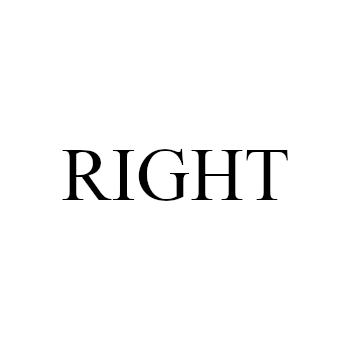
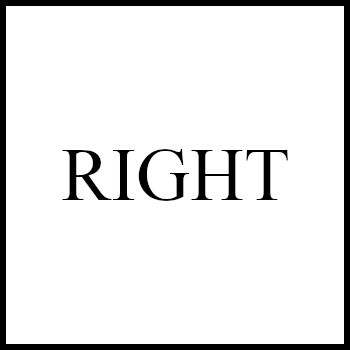
fix issues and add borders to the edges of the cube

Changed region(s): [[0.0, 0.0, 1.0, 1.0]]

diff --git a/crates/fj-viewer/src/graphics/navigation_cube.rs b/crates/fj-viewer/src/graphics/navigation_cube.rs
@@ -1,4 +1,4 @@
-use cgmath::{Quaternion, Rotation3, Vector3};
+use cgmath::{Quaternion, Rotation3, SquareMatrix, Vector3};
 use wgpu::util::DeviceExt;
 
 use super::{
@@ -191,16 +191,22 @@ impl NavigationCubeRenderer {
     }
 
     fn get_model_matrix(rotation: f32, aspect_ratio: &f64) -> [[f32; 4]; 4] {
-        let rotation = Quaternion::from_angle_y(cgmath::Deg(rotation));
+        let rotation = Quaternion::from_angle_y(cgmath::Deg(rotation))
+            * Quaternion::from_angle_x(cgmath::Deg(rotation));
 
-        let scale = cgmath::Matrix4::from_nonuniform_scale(
-            0.2,
-            (0.2 * aspect_ratio) as f32,
-            0.2,
-        );
+        let scale =
+            cgmath::Matrix4::from_nonuniform_scale(0.2, (0.2) as f32, 0.2);
+
+        let mut ortho = cgmath::Matrix4::identity();
+        ortho.x.x = 2.0 / (2.0 * *aspect_ratio as f32);
+        ortho.x.w = 0.0;
+        ortho.y.y = 1.0;
+        ortho.y.w = 0.0;
+        ortho.z.z = 0.5;
+        ortho.z.w = 0.0;
 
         let translation =
-            cgmath::Matrix4::from_translation((0.8, 0.8, 0.0).into());
-        (translation * cgmath::Matrix4::from(rotation) * scale).into()
+            cgmath::Matrix4::from_translation((0.8, 0.7, 0.5).into());
+        (translation * ortho * (cgmath::Matrix4::from(rotation) * scale)).into()
     }
 }
